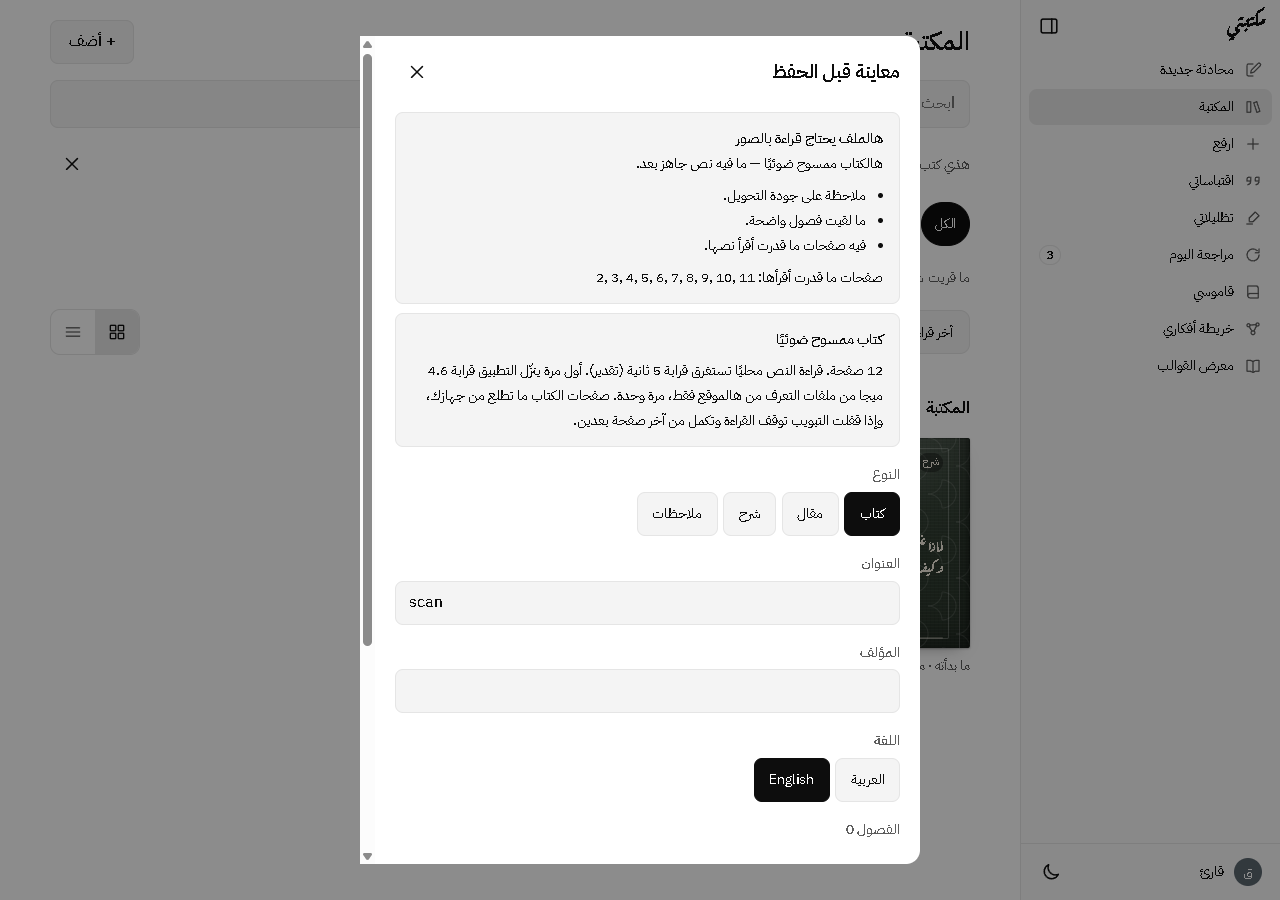
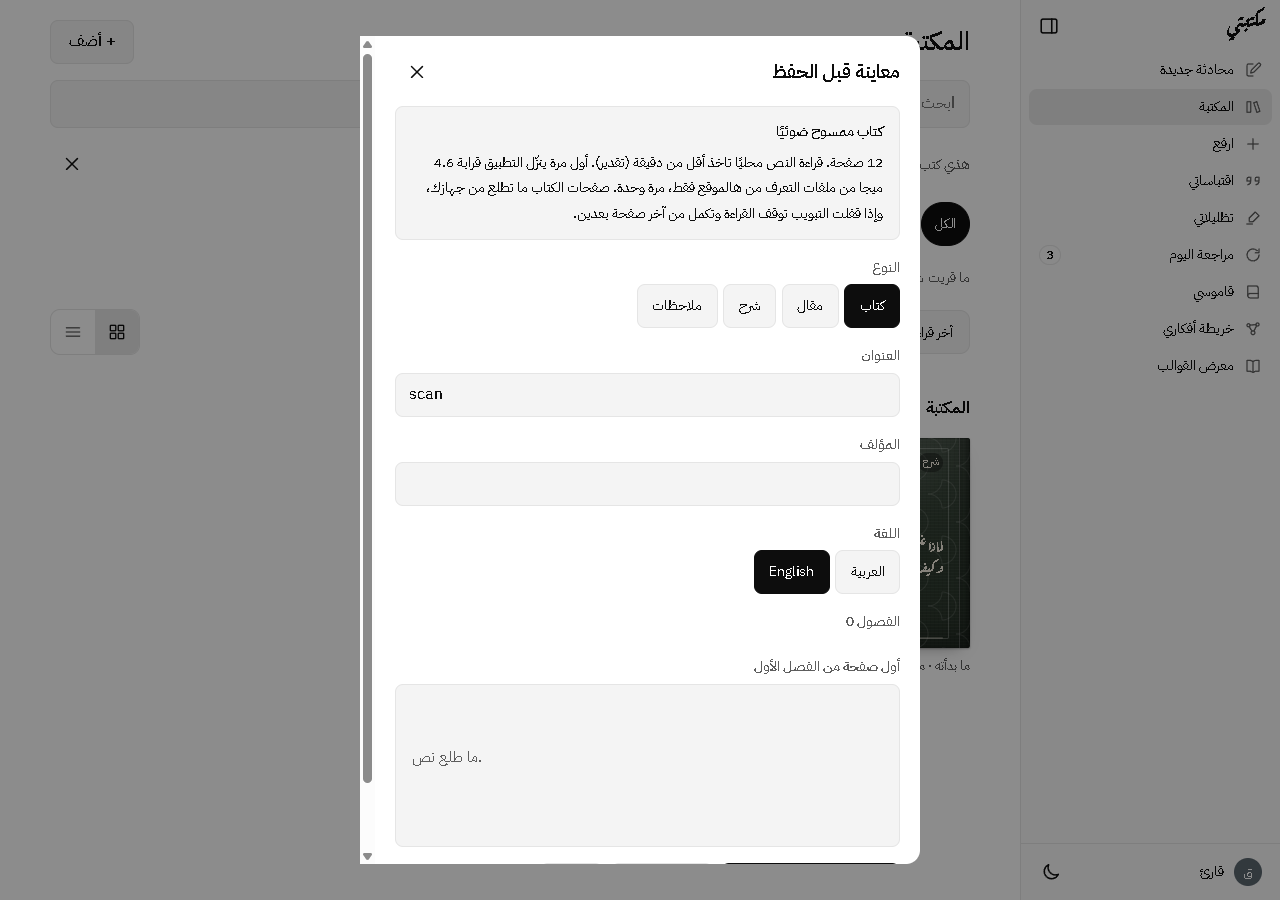
fix(ocr): chip placement, consent-only sheet, Arabic counts (PR5 review)
- Progress chip: anchored at the inline end of the content area (clear of
  the persistent sidebar in RTL/LTR) and toasts are raised above it while
  it is visible; asserted by e2e geometry checks (fully inside the viewport,
  no overlap with sidebar or toast) at 1280 and 390.
- Consent: a detected scanned book now shows only the consent box; the old
  detection warning with the unread-page list is kept for non-scanned books.
- Arabic number grammar: arCount (1 صفحة / 2 صفحتان / 3-10 صفحات / 11+ صفحة,
  same for ثانية/دقيقة/ساعة) and arDuration (أقل من دقيقة under a minute),
  used in the consent, progress line, chip, search and quote page labels;
  unit-tested. Time estimate now says «أقل من دقيقة» for short books.
- «أعد قراءة الصفحات الفاشلة» renders only when pages failed, labeled with
  the count; hidden otherwise (unit label + e2e hidden-case coverage).
- Regenerated the six docs/screens/ocr screenshots.

diff --git a/apps/web/src/legacy/app.js b/apps/web/src/legacy/app.js
@@ -12,7 +12,7 @@ import { findNormalizedRange } from '../core/text.js';
 import { PROMPT_VERSION, CORRECTIVE_MESSAGE, parseGlossary, glossaryHash, glossaryForText, extractChapterUnits, chunkUnits, buildMessages as buildTranslationMessages, parseTranslation, qaSegment, estimateChapter, fingerprint, chapterSourceHash, lastTwoSentences, bookPlan, runConcurrent, hashString, isPeak, isArabicHighlight, isSourceHighlight } from '../core/translate.js';
 import { trGetJob, trPutJob, trListJobs, trGetSegments, trPutSegment, trDeleteJob, trGetGlossary, trPutGlossary, trDeleteBook, trClearAll } from '../core/translate-store.js';
 import { scannedSaveAllowed, scanBookFields, isPendingScan, ensureStores, quotaAllows, saveScannedBook, deleteScannedFile, sweepOrphanFiles, getScannedFile, persistOnce, ocrLockHeld } from '../core/scan-save.js';
-import { ensureOcrPagesStore, makeOcrStore, delOcrPagesForBook, sweepOcrPages, getBook, OCR_FAILED_LINE, OCR_CHAT_LABEL, OCR_BOOK_DISCLOSURE, OCR_EXPORT_NOTICE, OCR_DEFAULT_MS_PER_PAGE, OCR_FIRST_DOWNLOAD_MB, ocrTimeEstimate } from '../core/ocr-store.js';
+import { ensureOcrPagesStore, makeOcrStore, delOcrPagesForBook, sweepOcrPages, getBook, OCR_FAILED_LINE, OCR_CHAT_LABEL, OCR_BOOK_DISCLOSURE, OCR_EXPORT_NOTICE, OCR_DEFAULT_MS_PER_PAGE, OCR_FIRST_DOWNLOAD_MB, ocrTimeEstimate, arCount, ocrRetryLabel } from '../core/ocr-store.js';
 
 (function(){
 'use strict';
@@ -766,7 +766,7 @@ function renderBook(it){
     '<h1 class="bp-h" dir="auto">' + esc(it.title) + '</h1>' + (it.subtitle ? '<p class="bp-sub" dir="auto">' + esc(it.subtitle) + '</p>' : '') + (it.author ? '<p class="bp-au" dir="auto">' + esc(it.author) + '</p>' : '') +
     (it.translator ? '<p class="bp-m"><span>المترجم</span><bdi dir="auto">' + esc(it.translator) + '</bdi></p>' : '') + (it.originalTitle ? '<p class="bp-m"><span>العنوان الأصلي</span><bdi dir="ltr">' + esc(it.originalTitle) + '</bdi></p>' : '') +
     (it.whyRead ? '<div class="bp-why"><b>ليش أقرأه</b><p dir="auto">' + md(it.whyRead) + '</p></div>' : '') +
-    '<div class="bp-act"><button class="pbtn" data-href="' + R + '">' + go + '</button>' + trBookButton(it) + (isScanDone(it) ? '<button class="gbtn" id="ocrRetry">أعد قراءة الصفحات الفاشلة</button>' : '') + '<button class="gbtn" data-bpa="chat">ناقش</button><button class="gbtn" data-bpa="cols">' + tx('المجموعات') + '</button><button class="gbtn" data-bpa="snd"' + (snd ? '' : ' disabled title="يتوفر مع ميزة الأصوات"') + '>أصوات</button><button class="gbtn" data-bpa="more" aria-label="المزيد" style="min-width:44px; padding:0">' + svg('dots') + '</button></div>' +
+    '<div class="bp-act"><button class="pbtn" data-href="' + R + '">' + go + '</button>' + trBookButton(it) + (isScanDone(it) ? '<button class="gbtn" id="ocrRetry" hidden>' + esc(ocrRetryLabel(0)) + '</button>' : '') + '<button class="gbtn" data-bpa="chat">ناقش</button><button class="gbtn" data-bpa="cols">' + tx('المجموعات') + '</button><button class="gbtn" data-bpa="snd"' + (snd ? '' : ' disabled title="يتوفر مع ميزة الأصوات"') + '>أصوات</button><button class="gbtn" data-bpa="more" aria-label="المزيد" style="min-width:44px; padding:0">' + svg('dots') + '</button></div>' +
     ingWarn(it) +
     (isScanDone(it) ? '<p class="hint" style="margin:.4rem 0 0">' + esc(OCR_BOOK_DISCLOSURE) + '</p>' : '') +
     '<div class="stats">' + cnt.map(c => '<div class="stat"><b>' + c[0] + '</b><span>' + c[1] + '</span></div>').join('') + '</div>' +
@@ -783,6 +783,13 @@ function renderBook(it){
       $('#sheet').onclick = ev => { const x = ev.target.closest('[data-bpa]'); if (!x) return; closeSheet(); const y = x.dataset.bpa; if (y === 'cover') pickCover(it); else if (y === 'uncover'){ delete it.cover; put('items', it); toast('انأزل الغلاف'); renderBook(it); } else if (y === 'del') confirmDelete(it); };
     }
   };
+  /* retry button appears only when pages actually failed, labeled with the count */
+  if (isScanDone(it) && idb) makeOcrStore(idb).getAllPages(it.id).then(recs => {
+    const n = recs.filter(r => r.status === 'failed').length;
+    const el = $('#ocrRetry'); if (!el) return;
+    const label = ocrRetryLabel(n);
+    if (label){ el.textContent = label; el.hidden = false; } else el.hidden = true;
+  }).catch(() => {});
   fitSoon($('#v-book'));
 }
 let COVER_FOR = null;
@@ -947,7 +954,7 @@ function doSearch(q){
   const G = { titles:[], text:[], hl:[], notes:[] };
   allItems().forEach(it => {
     if (norm(it.title + ' ' + (it.author || '')).includes(nq)) G.titles.push('<button class="res" data-href="#/read/' + encodeURIComponent(it.id) + '"><div>' + snip(it.title, nq) + '</div><small>' + (TYPES[it.type] || '') + (it.author ? ' · ' + esc(it.author) : '') + '</small></button>');
-    itemBlocks(it).forEach(b => { if (G.text.length < 40 && norm(b.text).includes(nq)) G.text.push('<button class="res" data-href="#/read/' + encodeURIComponent(it.id) + '/' + encodeURIComponent(b.key) + '"><div>' + snip(b.text, nq) + '</div><small>' + srcLine(it) + (b.page ? ' · صفحة ' + b.page : (b.where ? ' · ' + esc(short(b.where, 40)) : '')) + '</small></button>'); });
+    itemBlocks(it).forEach(b => { if (G.text.length < 40 && norm(b.text).includes(nq)) G.text.push('<button class="res" data-href="#/read/' + encodeURIComponent(it.id) + '/' + encodeURIComponent(b.key) + '"><div>' + snip(b.text, nq) + '</div><small>' + srcLine(it) + (b.page ? ' · ' + arCount(b.page, 'صفحة') : (b.where ? ' · ' + esc(short(b.where, 40)) : '')) + '</small></button>'); });
   });
   annosOf('hl').forEach(a => { const it = itemById(a.itemId); if (!it) return; const hay = a.text + ' ' + (a.note || ''); if (norm(hay).includes(nq)) G.hl.push('<button class="res" data-href="#/read/' + encodeURIComponent(it.id) + '/' + encodeURIComponent(a.bk) + '"><div>' + snip(norm(a.text).includes(nq) ? a.text : a.note, nq) + '</div><small>' + srcLine(it) + '</small></button>'); });
   const FL = { predict:'توقّعي', summary:'ملخّصي', open:'أسئلتي المفتوحة', apply:'وش بطبّق' };
@@ -1216,7 +1223,7 @@ function renderReader(it, target, o){
   if (isPendingScan(it) || (it.source === 'scan' && it.ocr && it.ocr.status !== 'done')){
     const ocr = it.ocr || {};
     const st = ocr.status === 'running' ? ' يقرأ الآن…' : ocr.status === 'paused' ? ' — ' + (OCR_STOP_REASON[ocr.reason] || 'متوقف مؤقتًا.') : '';
-    const doneTxt = ocr.done ? 'قرأت ' + ocr.done + ' من ' + (ocr.pages || 0) + ' صفحة' + st : 'بانتظار البدء.';
+    const doneTxt = ocr.done ? 'قرأت ' + ocr.done + ' من ' + arCount(ocr.pages || 0, 'صفحة') + st : 'بانتظار البدء.';
     $('#v-read').innerHTML = '<div class="wrap" style="padding-top:2.5rem; padding-bottom:4rem; text-align:center">' +
       '<span style="font-size:.72rem;color:var(--soft);border:1px solid var(--rule);border-radius:99px;padding:2px 10px">ممسوح ضوئيًا</span>' +
       '<h2 style="margin:1rem 0 .5rem" dir="auto">' + esc(it.title) + '</h2>' +
@@ -1270,7 +1277,7 @@ function ocrChipEl(){
   if (OCR_CHIP) return OCR_CHIP;
   OCR_CHIP = document.createElement('div');
   OCR_CHIP.id = 'ocrChip';
-  OCR_CHIP.style.cssText = 'position:fixed;bottom:14px;inset-inline-start:14px;z-index:60;display:flex;align-items:center;gap:.5rem;background:var(--bg,#fff);color:var(--fg,#222);border:1px solid var(--rule,#ddd);border-radius:12px;padding:.5rem .8rem;box-shadow:0 2px 10px rgba(0,0,0,.14);font-size:.85rem;max-width:min(92vw,440px)';
+  OCR_CHIP.style.cssText = 'position:fixed;bottom:16px;inset-inline-end:16px;z-index:60;display:flex;align-items:center;gap:.5rem;background:var(--bg,#fff);color:var(--fg,#222);border:1px solid var(--rule,#ddd);border-radius:12px;padding:.5rem .8rem;box-shadow:0 2px 10px rgba(0,0,0,.14);font-size:.85rem;max-width:min(92vw,440px)';
   OCR_CHIP.hidden = true;
   OCR_CHIP.onclick = e => { if (e.target.closest('[data-ocrchip="pause"]') && ocrRun) ocrRun.ctrl.abort(); };
   document.body.appendChild(OCR_CHIP);
@@ -1278,11 +1285,12 @@ function ocrChipEl(){
 }
 function updateOcrChip(state){
   const c = ocrChipEl();
-  if (!state || !state.total){ c.hidden = true; return; }
+  if (!state || !state.total){ c.hidden = true; const t = $('#toast'); if (t) t.style.bottom = ''; return; }
   c.hidden = false;
+  const t = $('#toast'); if (t) t.style.bottom = '84px'; // toasts stack above the chip
   const left = Math.max(0, state.total - (state.done || 0));
   const est = left > 0 ? ocrTimeEstimate(left, kv.get('ocrMsAvg', null) || OCR_DEFAULT_MS_PER_PAGE) : '…';
-  c.innerHTML = '<span style="white-space:nowrap;overflow:hidden;text-overflow:ellipsis;max-width:190px"><bdi dir="auto">' + esc(short(state.title || '', 24)) + '</bdi></span><span class="hint" style="white-space:nowrap">' + (state.done || 0) + ' من ' + state.total + (left > 0 ? ' · باقي قرابة ' + est : '') + '</span><button class="gbtn ch-sm" data-ocrchip="pause">إيقاف</button>';
+  c.innerHTML = '<span style="white-space:nowrap;overflow:hidden;text-overflow:ellipsis;max-width:190px"><bdi dir="auto">' + esc(short(state.title || '', 24)) + '</bdi></span><span class="hint" style="white-space:nowrap">' + (state.done || 0) + ' من ' + arCount(state.total, 'صفحة') + (left > 0 ? ' · باقي قرابة ' + est : '') + '</span><button class="gbtn ch-sm" data-ocrchip="pause">إيقاف</button>';
 }
 async function startOcr(it, opts = {}){
   if (!idb){ toast('التخزين غير متاح. ما قدرت أقرأ النص.'); return; }
@@ -1303,7 +1311,7 @@ async function startOcr(it, opts = {}){
       onProgress: p => {
         const memCur = mem.items.get(it.id); // sync mem on every page write: later app puts never carry a stale ocr field
         if (memCur && memCur.ocr){ memCur.ocr.status = 'running'; delete memCur.ocr.reason; if (typeof p.done === 'number') memCur.ocr.done = p.done; }
-        if (prog) prog.textContent = p.finished ? 'انتهت القراءة.' : 'قرأت ' + (p.done || 0) + ' من ' + (p.total || 0) + ' صفحة';
+        if (prog) prog.textContent = p.finished ? 'انتهت القراءة.' : 'قرأت ' + (p.done || 0) + ' من ' + arCount(p.total || 0, 'صفحة');
         updateOcrChip({ bookId: it.id, title: it.title, done: p.done || 0, total: p.total || 0 });
         if (cur.view === 'lib' || cur.view === 'book') refreshView();
       }
@@ -3796,7 +3804,7 @@ function searchHits(q, n){
   const score = t => { t = norm(t); let s = 0; toks.forEach(w => { if (t.includes(w)) s++; }); return s ? s + (s === toks.length ? 1 : 0) : 0; };
   const out = [];
   allItems().forEach(it => {
-    itemBlocks(it).forEach(b => { if (!aheadOk(it, keyCh(b.key))) return; const s = score(b.text); if (s) out.push({ it, key:b.key, text:b.text, s, kind:'text', where:b.page ? 'صفحة ' + b.page : (b.where || '') }); });
+    itemBlocks(it).forEach(b => { if (!aheadOk(it, keyCh(b.key))) return; const s = score(b.text); if (s) out.push({ it, key:b.key, text:b.text, s, kind:'text', where:b.page ? arCount(b.page, 'صفحة') : (b.where || '') }); });
     arr(it.chapters).forEach((c, ci) => { const cc = chCard(it, ci); if (!cc || !aheadOk(it, ci, true)) return; const txt = [plain(c.title)].concat(cc.ideas, cc.terms, cc.topics).join(' — '); const s = score(txt); if (s) out.push({ it, key:'c' + ci, text:txt, s:s + .7, kind:'card' }); });
   });
   if (MEM().hl) annosOf('hl').forEach(a => { const it = itemById(a.itemId); if (!it) return; const txt = a.text + (a.note ? ' [ملاحظتي: ' + a.note + ']' : ''); const s = score(txt); if (s) out.push({ it, key:a.bk, text:txt, s:s + .5, kind:'hl' }); });
@@ -4218,7 +4226,7 @@ function initSide(){
 }
 
 /* ---------- quotes + all highlights ---------- */
-const bkPage = (it, bk) => { const b = itemBlocks(it).find(x => x.key === bk); return b && b.page ? ' · صفحة ' + b.page : ''; };
+const bkPage = (it, bk) => { const b = itemBlocks(it).find(x => x.key === bk); return b && b.page ? ' · ' + arCount(b.page, 'صفحة') : ''; };
 function renderQuotes(){
   const qs = annosOf('quote').filter(a => itemById(a.itemId)).sort((a, b) => (b.t || 0) - (a.t || 0));
   $('#v-quotes').innerHTML = '<div class="wrap" style="padding-top:1.5rem; padding-bottom:4rem"><h1 class="vh">' + tx('اقتباساتي') + '</h1><p class="quiet" style="margin:.25rem 0 .5rem">' + tx('كل اقتباس تحفظه من «اقتباس» في شريط التحديد يطلع هنا.') + '</p>' +
@@ -5012,12 +5020,13 @@ function showPreview(P){
   const firstPage = x => { const c0 = x.chapters[0]; let n = 0; return c0 ? arr(c0.sections).map(s => (n > 1600 ? '' : (s.title ? '<h4>' + md(s.title) + '</h4>' : '') + arr(s.blocks).filter(b => n <= 1600 && ((n += blockText(b).length), true)).map((b, bi) => block(b, 'pv-' + bi)).join(''))).join('') : ''; };
   const chList = x => x.chapters.map(c => '<li>' + esc(c.title || '—') + '</li>').join('');
   const seg = (id, opts, v) => '<div class="seg" id="' + id + '" role="group">' + opts.map(o => '<button type="button" data-v="' + o[0] + '" aria-pressed="' + (o[0] === v) + '">' + o[1] + '</button>').join('') + '</div>';
+  const scanEst = scanOk ? ocrTimeEstimate(rep.pages || 0, kv.get('ocrMsAvg', null) || OCR_DEFAULT_MS_PER_PAGE) : '';
   openModal('<div class="mhead"><h3>' + tx('معاينة قبل الحفظ') + '</h3>' + closeBtn + '</div>' +
-    (rep ? '<div class="msg' + (rec === 'ok' ? ' ok' : '') + '" role="status"><b>' + tx(ING_REC[rec] || ING_REC.review) + '</b>' +
-      (rec === 'vision' ? tx(scanOk ? 'هالكتاب ممسوح ضوئيًا — ما فيه نص جاهز بعد.' : 'نص هالملف ما ينقرأ (غالبًا صفحات ممسوحة كصور)، ويحتاج قراءة الصفحات كصور. هالميزة مو متوفرة بعد، فما راح أحفظه.') : '') +
+    ((rep && !scanOk) ? '<div class="msg' + (rec === 'ok' ? ' ok' : '') + '" role="status"><b>' + tx(ING_REC[rec] || ING_REC.review) + '</b>' +
+      (rec === 'vision' ? tx('نص هالملف ما ينقرأ (غالبًا صفحات ممسوحة كصور)، ويحتاج قراءة الصفحات كصور. هالميزة مو متوفرة بعد، فما راح أحفظه.') : '') +
       (issues.length ? '<ul class="ing-issues" style="margin:.4rem 0 0; padding-inline-start:1.2em">' + issues.map(t => '<li>' + tx(t) + '</li>').join('') + '</ul>' : '') +
       (unread.length ? '<p style="margin:.4rem 0 0"><span>' + tx('صفحات ما قدرت أقرأها:') + '</span> <bdi dir="ltr">' + esc(unread.slice(0, 40).join(', ') + (unread.length > 40 ? ' …' : '')) + '</bdi></p>' : '') + '</div>' : '') +
-    (scanOk ? '<div class="msg" role="note" style="margin:.6rem 0 0"><b>كتاب ممسوح ضوئيًا</b><p style="margin:.35rem 0 0; line-height:1.75">' + (rep.pages || 0) + ' صفحة. قراءة النص محليًا تستغرق قرابة ' + ocrTimeEstimate(rep.pages || 0, kv.get('ocrMsAvg', null) || OCR_DEFAULT_MS_PER_PAGE) + ' (تقدير). أول مرة ينزّل التطبيق قرابة ' + OCR_FIRST_DOWNLOAD_MB + ' ميجا من ملفات التعرف من هالموقع فقط، مرة وحدة. صفحات الكتاب ما تطلع من جهازك، وإذا قفلت التبويب توقف القراءة وتكمل من آخر صفحة بعدين.</p></div>' : '') +
+    (scanOk ? '<div class="msg" role="note" style="margin:.6rem 0 0"><b>كتاب ممسوح ضوئيًا</b><p style="margin:.35rem 0 0; line-height:1.75">' + arCount(rep.pages || 0, 'صفحة') + '. قراءة النص محليًا تاخذ ' + (scanEst.indexOf('أقل') === 0 ? scanEst : 'قرابة ' + scanEst) + ' (تقدير). أول مرة ينزّل التطبيق قرابة ' + OCR_FIRST_DOWNLOAD_MB + ' ميجا من ملفات التعرف من هالموقع فقط، مرة وحدة. صفحات الكتاب ما تطلع من جهازك، وإذا قفلت التبويب توقف القراءة وتكمل من آخر صفحة بعدين.</p></div>' : '') +
     '<p class="flabel">' + tx('النوع') + '</p>' + seg('pvType', Object.keys(TYPES).map(k => [k, TYPES[k]]), it.type) +
     '<label class="flabel" for="pvT">' + tx('العنوان') + '</label><input class="inp" id="pvT" dir="auto" value="' + esc(it.title) + '">' +
     '<label class="flabel" for="pvA">' + tx('المؤلف') + '</label><input class="inp" id="pvA" dir="auto" value="' + esc(it.author || '') + '">' +

diff --git a/tests/core/ocr-ui.test.js b/tests/core/ocr-ui.test.js
@@ -2,7 +2,7 @@
 // mem/IDB sync under stale writes, onlyFailed retries, and single-PDF-open runs.
 import { describe, it, expect } from 'vitest';
 import { persistOnce, ocrLockHeld, scanBookFields } from '../../apps/web/src/core/scan-save.js';
-import { ocrTimeEstimate, OCR_DEFAULT_MS_PER_PAGE, OCR_FAILED_LINE, OCR_CHAT_LABEL, OCR_BOOK_DISCLOSURE, OCR_EXPORT_NOTICE, ensureOcrPagesStore, putOcrPageAndBook, getOcrPage, getAllPages, putBook, getBook } from '../../apps/web/src/core/ocr-store.js';
+import { ocrTimeEstimate, arCount, arDuration, ocrRetryLabel, OCR_DEFAULT_MS_PER_PAGE, OCR_FAILED_LINE, OCR_CHAT_LABEL, OCR_BOOK_DISCLOSURE, OCR_EXPORT_NOTICE, ensureOcrPagesStore, putOcrPageAndBook, getOcrPage, getAllPages, putBook, getBook } from '../../apps/web/src/core/ocr-store.js';
 import { createOcrRunner, mergeOcrBook } from '../../apps/web/src/core/ocr-run.js';
 import { scanPageId, ensureStores } from '../../apps/web/src/core/scan-save.js';
 
@@ -39,11 +39,42 @@ describe('ocrLockHeld', () => {
 });
 
 describe('time estimate and shared copy', () => {
-  it('estimates seconds and minutes from measured ms/page', () => {
-    expect(ocrTimeEstimate(80, 400)).toBe('32 ثانية');
+  it('estimates via Arabic duration grammar', () => {
+    expect(ocrTimeEstimate(80, 400)).toBe('أقل من دقيقة');
     expect(ocrTimeEstimate(600, 400)).toBe('4 دقايق');
-    expect(ocrTimeEstimate(1, 400)).toBe('1 ثانية');
-    expect(ocrTimeEstimate(0)).toBe('1 ثانية');
+    expect(ocrTimeEstimate(1, 400)).toBe('أقل من دقيقة');
+    expect(ocrTimeEstimate(0)).toBe('أقل من دقيقة');
+  });
+  it('arCount follows the Arabic count grammar', () => {
+    expect(arCount(1, 'صفحة')).toBe('1 صفحة');
+    expect(arCount(2, 'صفحة')).toBe('2 صفحتان');
+    expect(arCount(3, 'صفحة')).toBe('3 صفحات');
+    expect(arCount(10, 'صفحة')).toBe('10 صفحات');
+    expect(arCount(11, 'صفحة')).toBe('11 صفحة');
+    expect(arCount(0, 'صفحة')).toBe('0 صفحة');
+    expect(arCount(2, 'دقيقة')).toBe('2 دقيقتان');
+    expect(arCount(5, 'دقيقة')).toBe('5 دقايق');
+    expect(arCount(11, 'دقيقة')).toBe('11 دقيقة');
+    expect(arCount(2, 'ساعة')).toBe('2 ساعتان');
+    expect(arCount(3, 'ساعة')).toBe('3 ساعات');
+    expect(arCount(2, 'ثانية')).toBe('2 ثانيتان');
+  });
+  it('arDuration: under a minute, minutes, hours', () => {
+    expect(arDuration(30)).toBe('أقل من دقيقة');
+    expect(arDuration(59)).toBe('أقل من دقيقة');
+    expect(arDuration(60)).toBe('1 دقيقة');
+    expect(arDuration(120)).toBe('2 دقيقتان');
+    expect(arDuration(180)).toBe('3 دقايق');
+    expect(arDuration(660)).toBe('11 دقيقة');
+    expect(arDuration(3600)).toBe('1 ساعة');
+    expect(arDuration(7200)).toBe('2 ساعتان');
+    expect(arDuration(10800)).toBe('3 ساعات');
+  });
+  it('retry label carries the count, empty when nothing failed', () => {
+    expect(ocrRetryLabel(0)).toBe('');
+    expect(ocrRetryLabel(1)).toBe('أعد قراءة 1 صفحة الفاشلة');
+    expect(ocrRetryLabel(3)).toBe('أعد قراءة 3 صفحات الفاشلة');
+    expect(ocrRetryLabel(12)).toBe('أعد قراءة 12 صفحة الفاشلة');
   });
   it('shared Arabic copy exists and mentions the essentials', () => {
     expect(OCR_FAILED_LINE).toBe('تعذّرت قراءة هذه الصفحة.');
